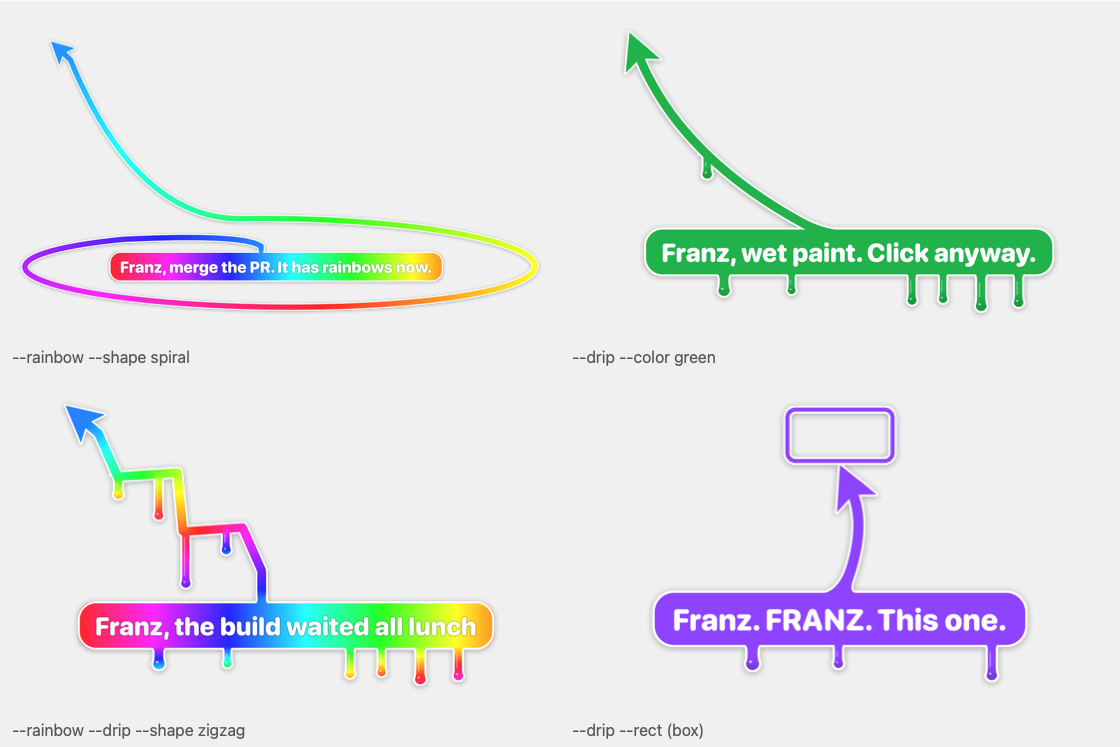
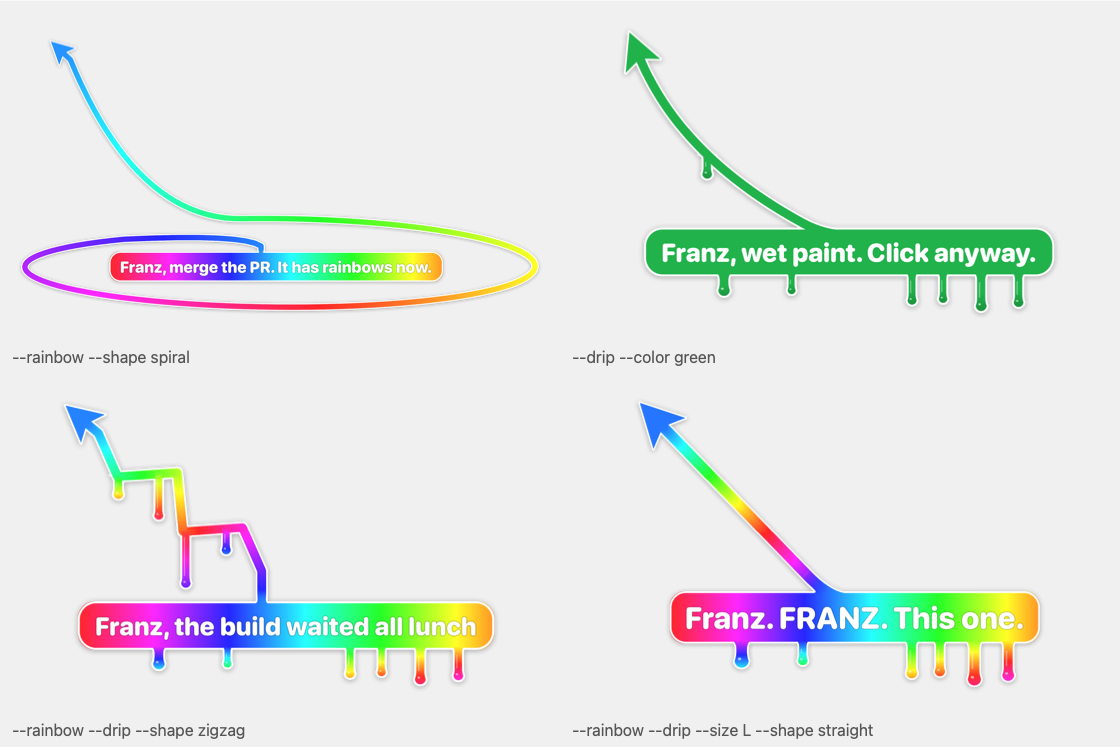
Effects sheet: a panel that shows a working effect; skill uses effects only when asked

Changed region(s): [[0.5625, 0.5234, 0.9375, 0.9237], [0.5312, 0.9545, 0.7812, 0.9853]]

diff --git a/skill/big-arrow/SKILL.md b/skill/big-arrow/SKILL.md
@@ -64,7 +64,7 @@ Default look is a white border with a drop shadow; `--border white-black|black` 
 `--border-color`, `--text-color`, `--edge-color`, `--close-color`, `--close-x-color` change it.
 `--shape bend|straight|zigzag|spiral`: spiral loops once around the sign before it points.
 `--rainbow`, `--drip`, `--flames`, `--shake 1-4` (mild, insistent, angry, topiramate): only when the
-human asks for them, or to escalate after they have missed the same plain arrow twice.
+human asks for them.
 
 ## Errors
 
